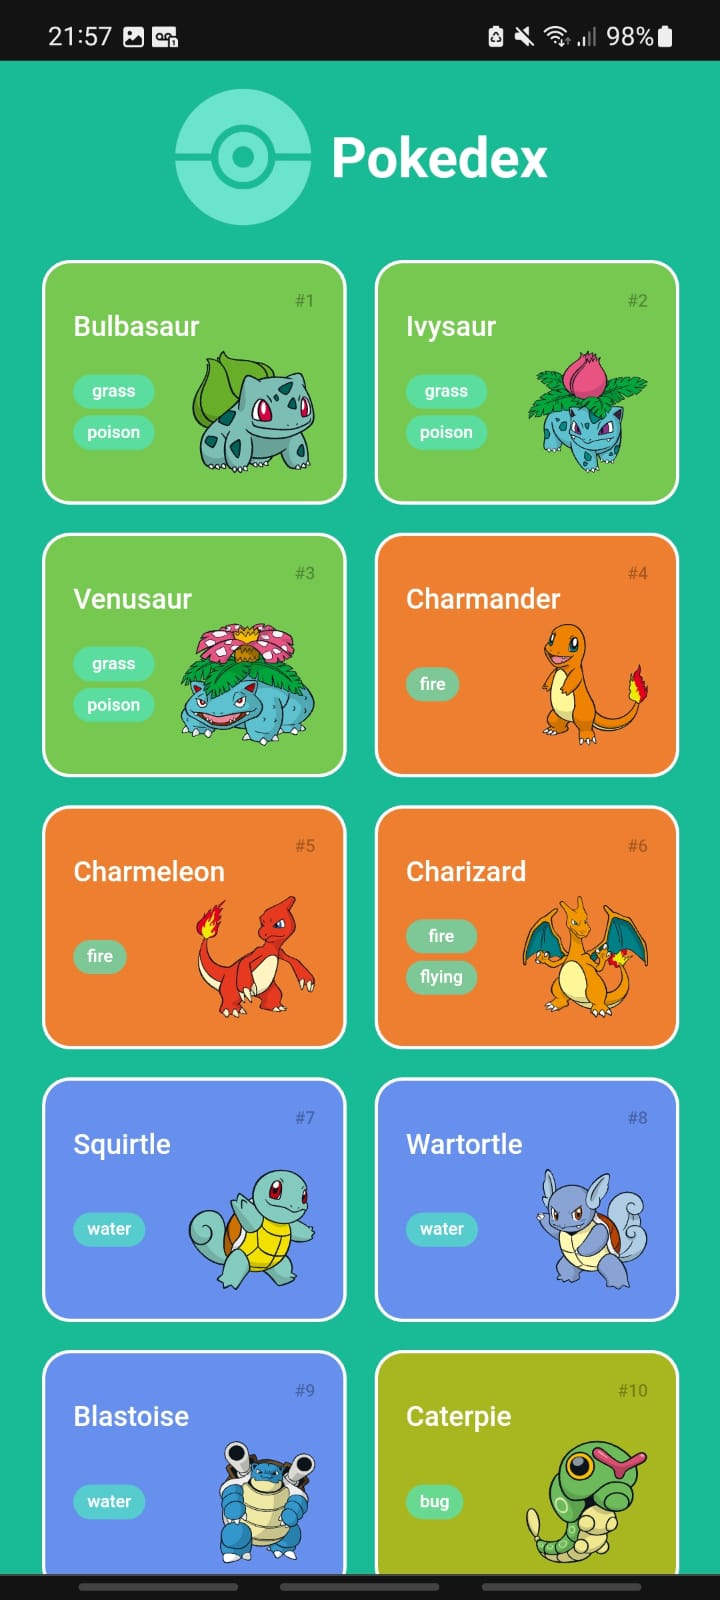
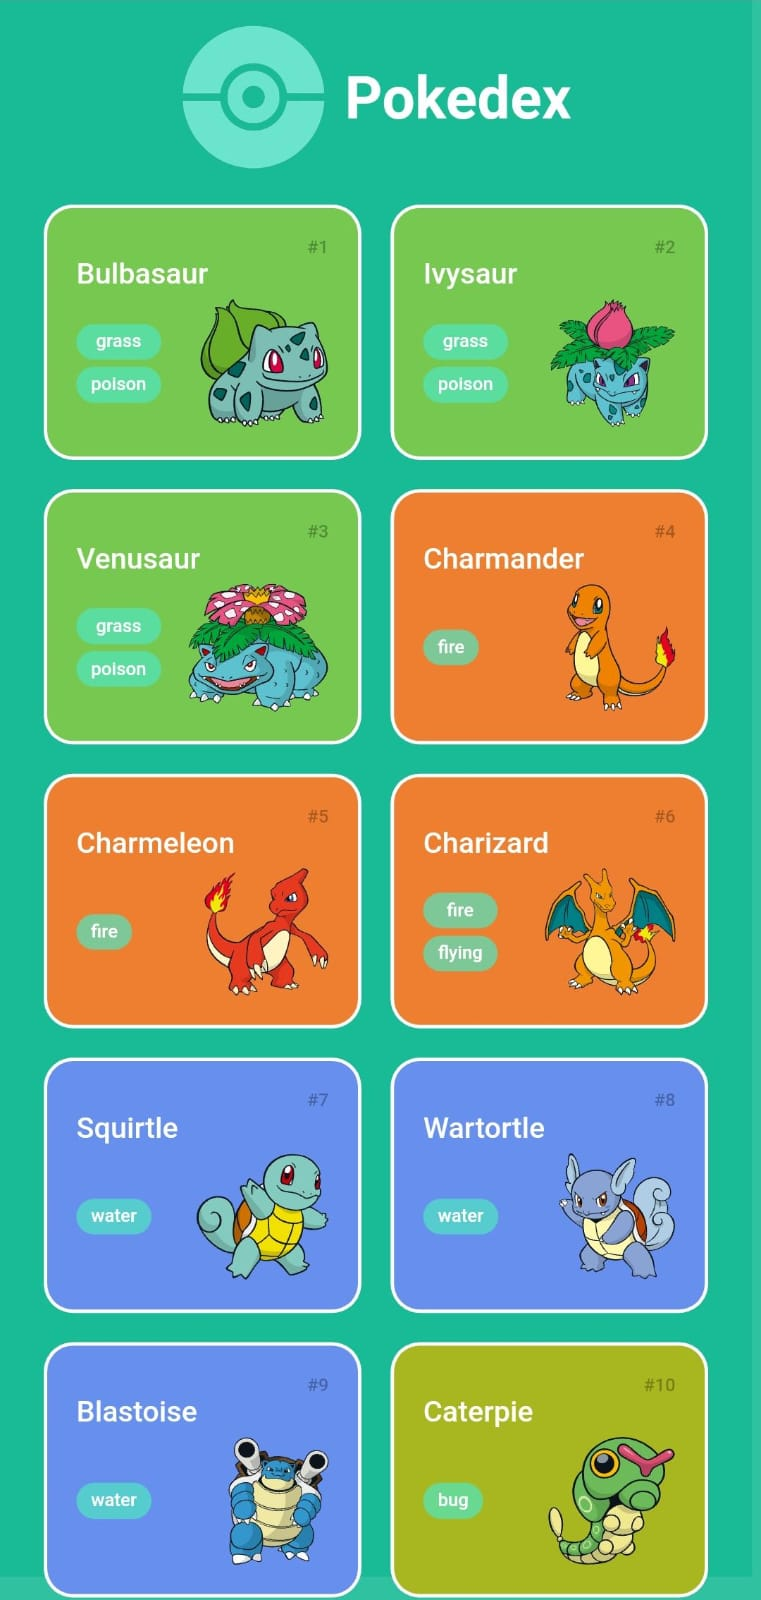
Melhorias

diff --git a/src/css/pokeDetail.css b/src/css/pokeDetail.css
@@ -5,7 +5,7 @@
     justify-content: center;
     width: 50px;
     height: 100%;
-    /* background-color: #15b9955e; */
+    background-color: #15b9955e;
     position: fixed;
     left: -60px;
     bottom: 0;
@@ -22,7 +22,7 @@
     flex-direction: column;
     border: 3px solid white;
     background-color: rgb(167, 66, 66);
-    width: 94%;
+    width: 360px;
     height: 680px;
     border-radius: 2rem;
     padding: 35px 0px 0px 0px;
@@ -134,8 +134,9 @@
 }
 .main-detail .poke-img #pokemonImg{
     position: absolute;
-    bottom: 8px;
-    width: 160px;
+    bottom: -5px;
+    width: 200px;
+    height: 200px;
     z-index: 1;
 }
 .main-detail  #pokebola{
@@ -179,7 +180,7 @@
     content: "";
     position: absolute;
     color: black;
-    width: 45px;
+    width: 50px;
     border: 1px solid #3315b991;
     bottom: 0;
     left: 15px;
@@ -253,13 +254,76 @@
     }
     75%{
         transform: rotate(0.5deg);
-
+        
     }
     100%{
         transform: rotate(0deg);
     }
 }
 
+@media screen and (max-width: 500px) {
+    .content .window {
+        border: none;
+    }
+    .window-content {
+        width: 100%;
+        height: 100%;
+        border-radius: 0;
+        animation: none;
+        border: none;
+    }
+    .window-content .header-detail {
+        height: 450px;
+    }
+    .main-detail .titles {
+        font-size: 18px;
+    }
+    .main-detail .titles ul::after{
+        left: 28px;
+    }
+    .main-detail .poke-img #pokemonImg{
+        width: 250px;
+        height: 250px;
+    }
+    .main-detail .description {
+        padding: 20px 0 10px 30px;
+        font-size: 18px;
+    }
+    .main-detail .description .table-one {
+        font-size: 18px;
+        padding: 30px;
+    }
+    .main-detail .description .table-two {
+        font-size: 18px;
+    }
+}
+@media screen and (max-width: 400px) {
+    .main-detail .titles {
+        font-size: 16px;
+    }
+    .main-detail .description {
+        font-size: 16px;
+    }
+    .main-detail .description .table-one {
+        font-size: 16px;
+    }
+    .main-detail .description .table-two {
+        font-size: 16px;
+    }
+}
+
+@media screen and (min-width: 930px) {
+    .window-content {
+        border: none;
+    }
+    .header-detail{
+        border-radius: 0;
+    }
+    .window-content .content{
+        border-top-left-radius: 0;
+        border-top-right-radius: 0;
+    }
+}
 
 
 @media screen and (width: 412px) {
@@ -282,24 +346,9 @@
     }
 }
 
-@media screen and (min-width: 930px) {
-    .window-content {
-        border: none;
-    }
-    .window-content{
-        width: 850px;
-    }
-    .header-detail{
-        border-radius: 0;
-    }
-    .window-content .content{
-        border-top-left-radius: 0;
-        border-top-right-radius: 0;
-    }
-}
 
-@media screen and (min-width: 400px) {
+/* @media screen and (min-width: 400px) {
     .window-content {
         width: 352px;
     }  
-}
+} */

diff --git a/src/js/poke-api.js b/src/js/poke-api.js
@@ -1,7 +1,7 @@
 
 const pokeApi = {};
 
-function convertPokeApiDetailToPokemon(pokeDetail, eggs) {
+function convertPokeApiDetailToPokemon(pokeDetail, pokeDetailTwo) {
     const pokemon = new Pokemon();
     pokemon.number = pokeDetail.id;
     pokemon.name = pokeDetail.name;
@@ -21,7 +21,8 @@ function convertPokeApiDetailToPokemon(pokeDetail, eggs) {
     pokemon.height = pokeDetail.height;
     pokemon.weight = pokeDetail.weight;
 
-    pokemon.eggGroups = eggs.map((listar) => listar.name)
+    const eggGroups = pokeDetailTwo.egg_groups.map((details) => details);
+    pokemon.eggGroups = eggGroups.map((listar) => listar.name);
     
     return pokemon;
 }
@@ -32,11 +33,11 @@ pokeApi.getPokemonDetail = async (pokemon) => {
         const response = await fetch(pokemon.url);
         const data = await response.json();
 
-        const GroupNames = await fetch(data.species.url)
-        const listaNames = await GroupNames.json()
-        const eggs = await listaNames.egg_groups.map((groupN) => groupN)
+        const resPokeDetail = await fetch(data.species.url)
+        const dataTwoPokeDetails = await resPokeDetail.json()
 
-        return convertPokeApiDetailToPokemon(data, eggs);
+        return convertPokeApiDetailToPokemon(data, dataTwoPokeDetails);
+
     } catch (error) {
         console.error('Error fetching Pokemon details:', error);
         throw error;

diff --git a/src/js/poke-detail.js b/src/js/poke-detail.js
@@ -13,11 +13,13 @@ const thTableTwo = document.getElementById('thTableTwo');
 pokemonList.onclick = () => {
     janela.style.width = '100%';
     janela.style.left = 0;
+    document.querySelector('body').style.overflow = 'hidden';
 }
 
 spanModal.onclick = () => {
     janela.style.width = '-100%';
     janela.style.left = '-100%';
+    document.querySelector('body').style.overflow = 'visible';
 }
 
 pokemonList.addEventListener('click', function(event) {

diff --git a/index.html b/index.html
@@ -17,6 +17,7 @@
     <!-- Css -->
     <link rel="stylesheet" href="src/css/global.css">
     <link rel="stylesheet" href="src/css/pokeDetail.css">
+    <link rel="stylesheet" href="src/css/teste.css">
     <link rel="stylesheet" href="src/css/pokedex.css">
     <!-- Script -->
     <script src="src/js/poke-detail.js" defer></script>
